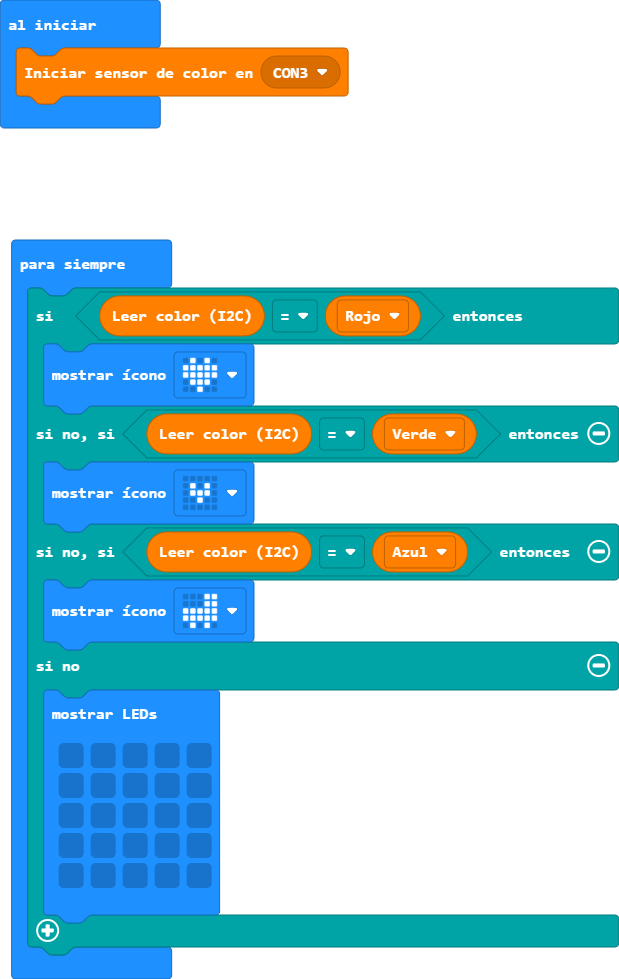
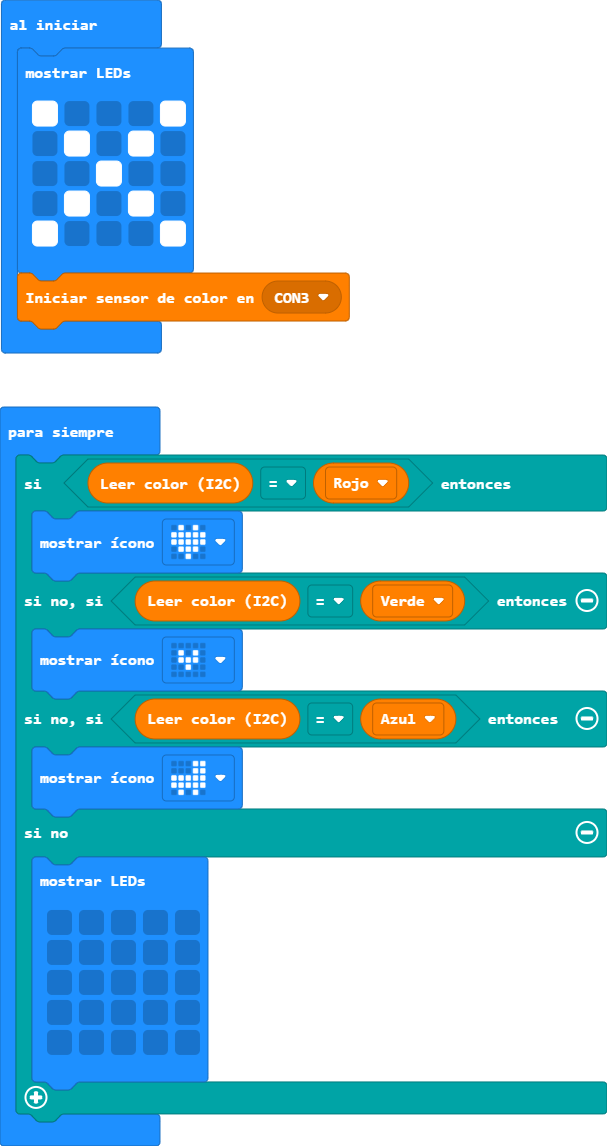
Actualizar main.blocks, main.ts

diff --git a/main.ts b/main.ts
@@ -1,3 +1,10 @@
+basic.showLeds(`
+    # . . . #
+    . # . # .
+    . . # . .
+    . # . # .
+    # . . . #
+    `)
 probots.initColorSensor(probots.conexiones_ret(conn.CON3))
 basic.forever(function () {
     if (probots.getSensedColorValue() == probots.colors_ret(Names_colors.Red)) {
